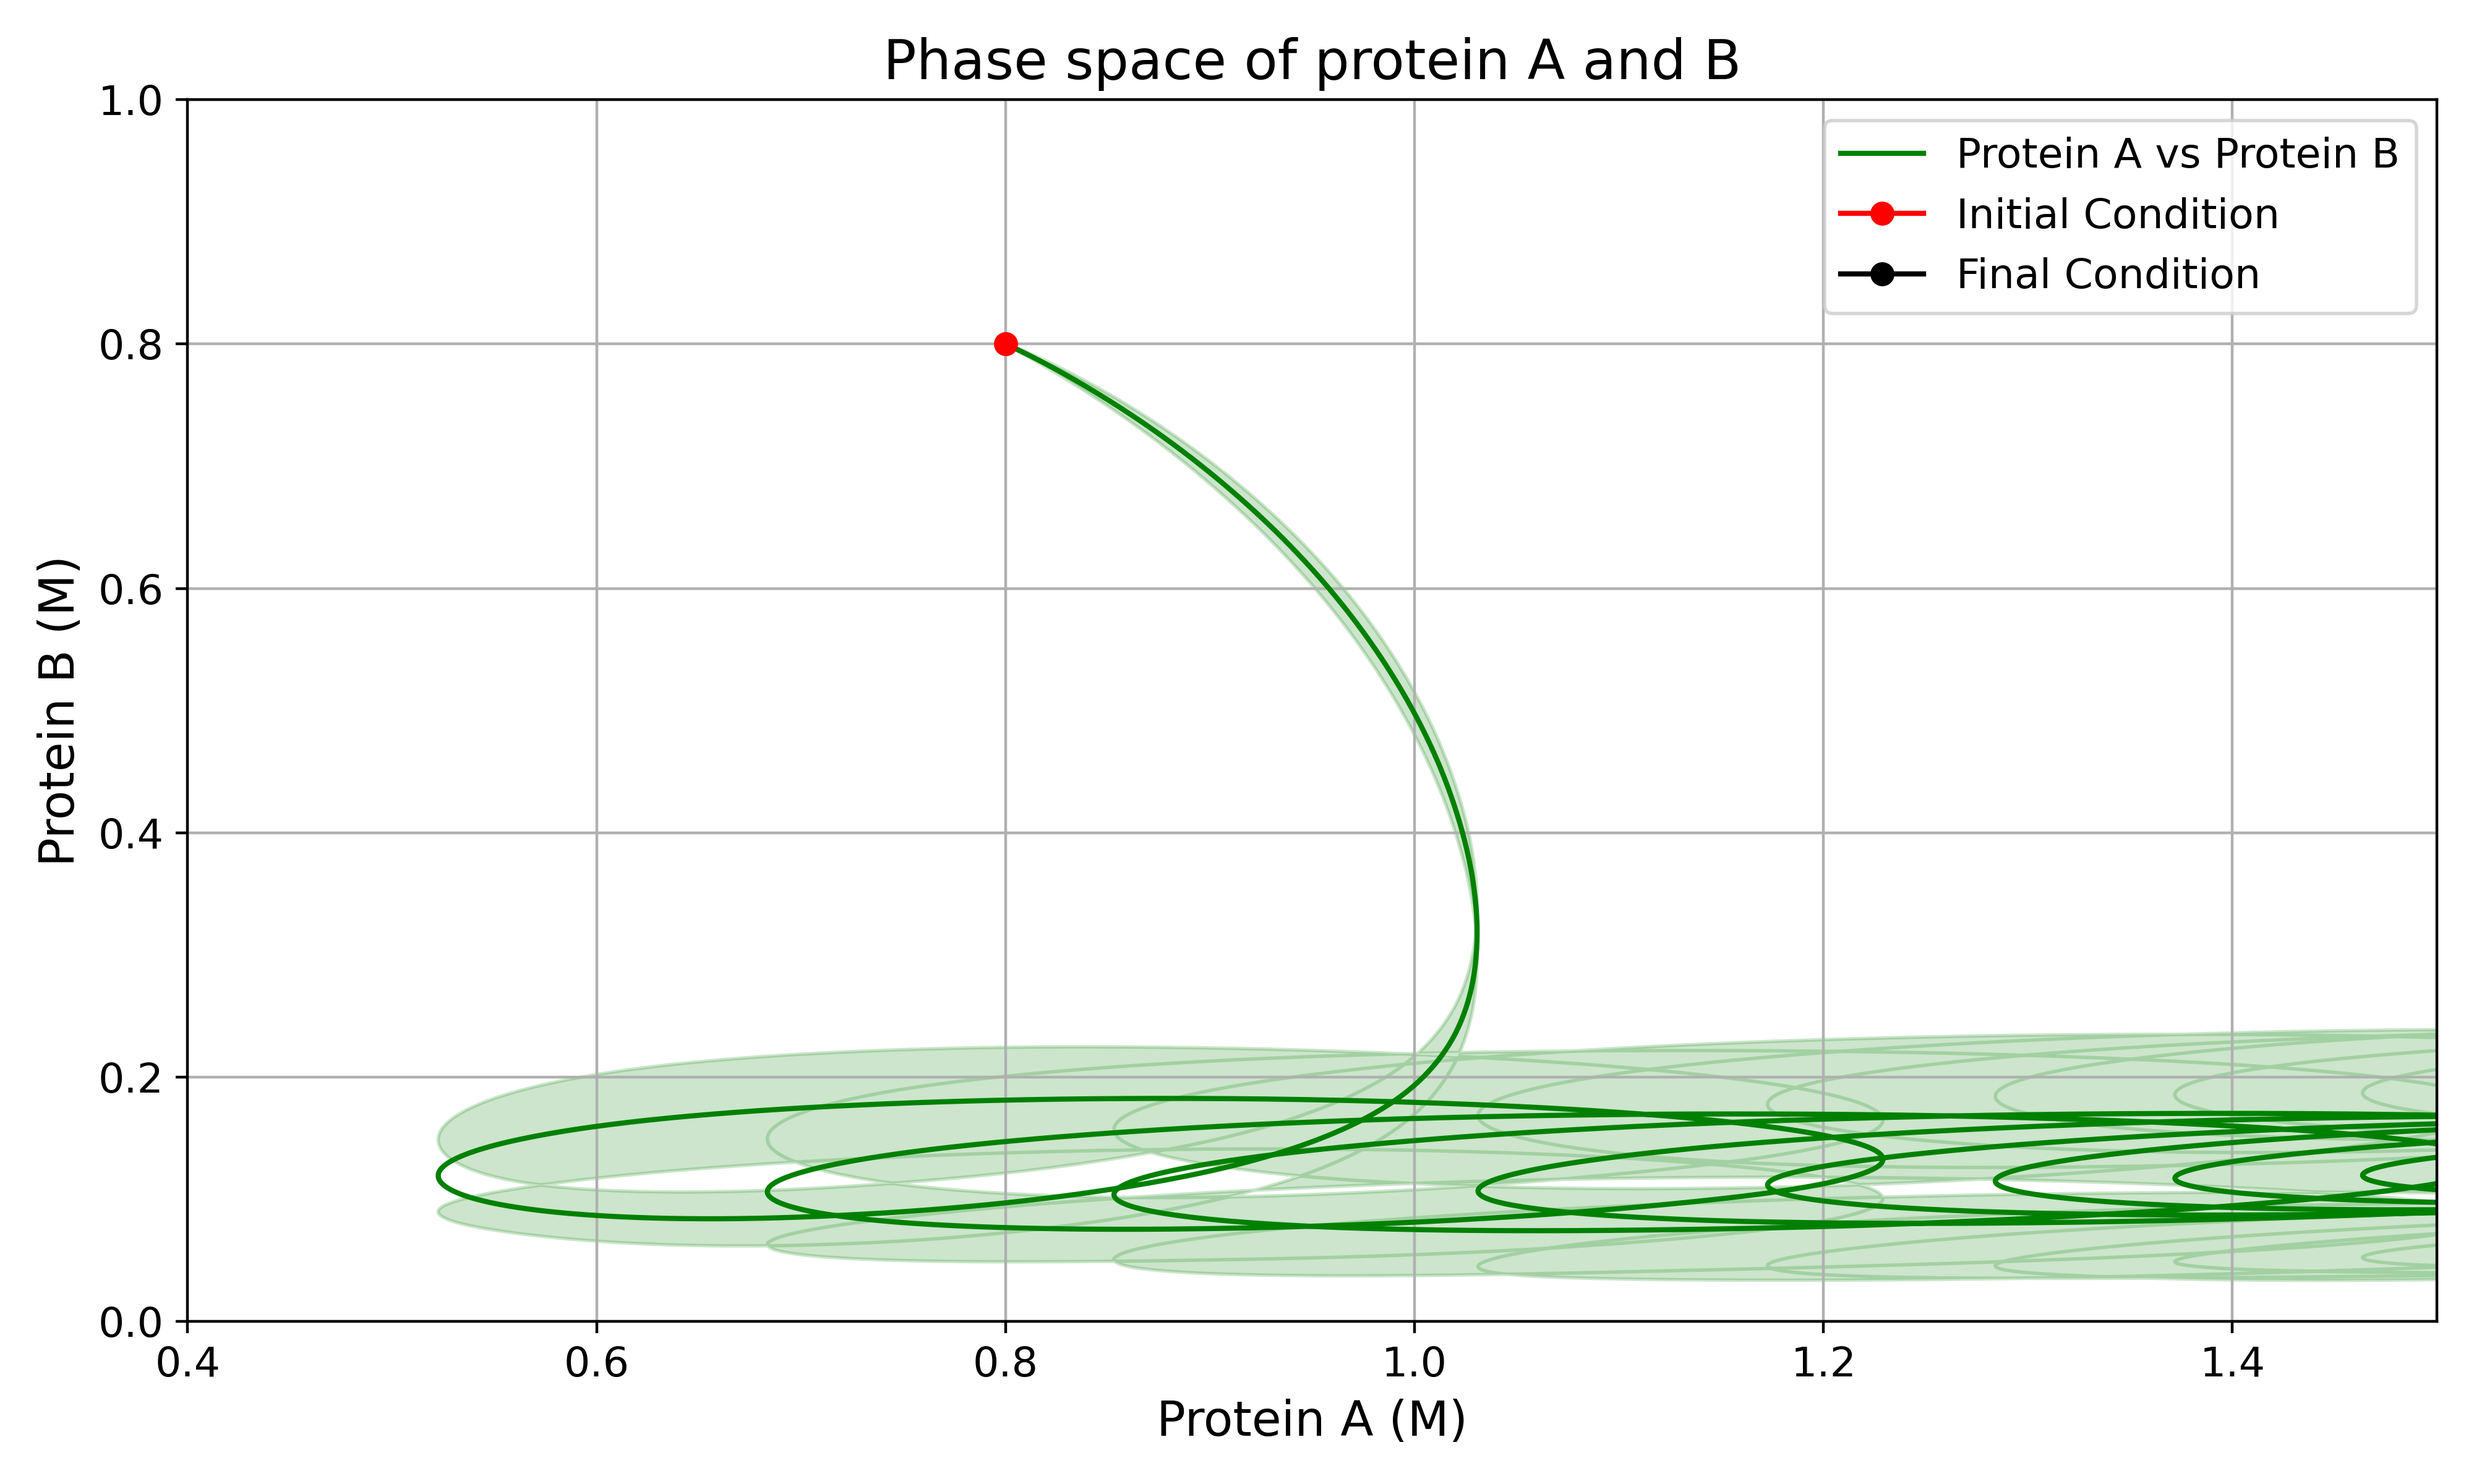
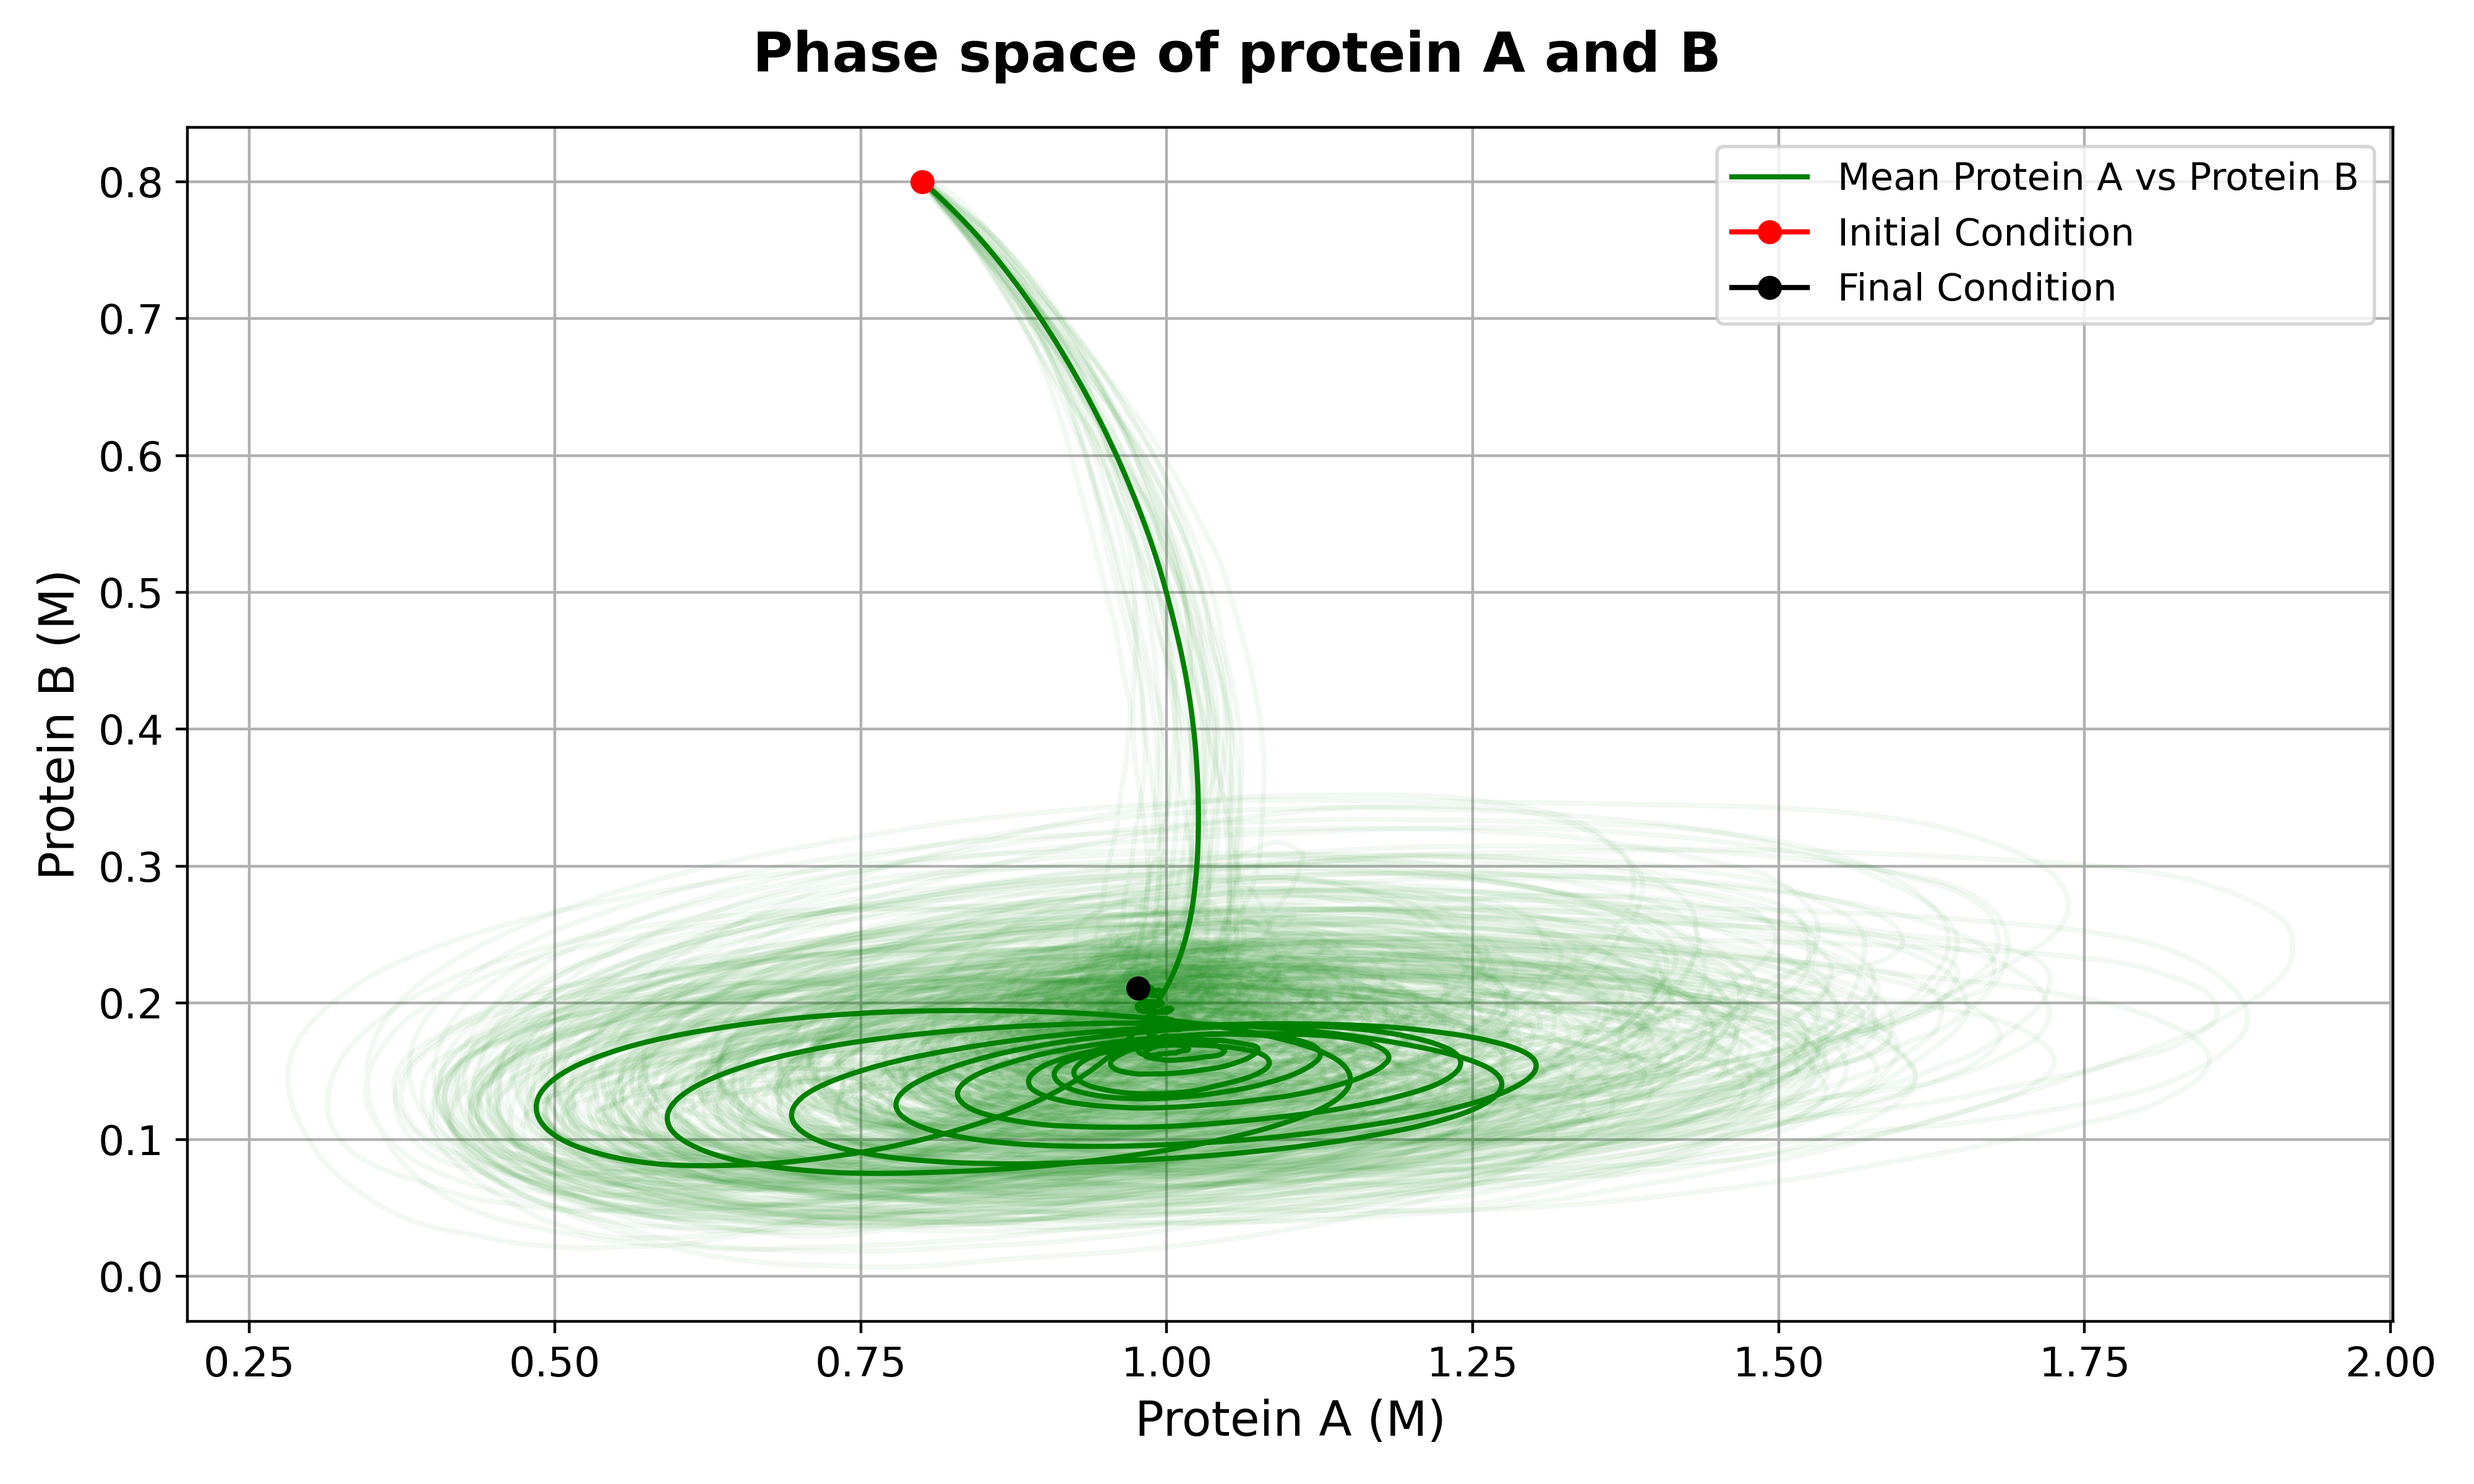
Changed calculation of alpha

diff --git a/assignment_2.py b/assignment_2.py
@@ -19,7 +19,12 @@ plt.rcParams["legend.fontsize"] = 12
 
 ##########################################
 def simualate_gene_network(
-    num_simulations: int, N: int, dt: float, params: dict, initial_conditions: dict
+    num_simulations: int,
+    N: int,
+    T: int,
+    dt: float,
+    params: dict,
+    initial_conditions: dict,
 ) -> tuple:
     """
     Simulate the gene network using the Euler-Maruyama method.
@@ -64,6 +69,7 @@ def simualate_gene_network(
         S_a[0] = initial_conditions["S_a"]
         S_b[0] = initial_conditions["S_b"]
 
+        time = np.linspace(0, T, N)
         for t in range(1, N):
             # Euler-Maruyama method
 
@@ -72,16 +78,20 @@ def simualate_gene_network(
             dB_1B = np.random.normal(0, np.sqrt(dt))
             dB_2B = np.random.normal(0, np.sqrt(dt))
 
-            alphaA = params["c_A"] / (1 + np.exp(-params["b_A"] * (t - params["a_A"])))
-            alphaB = params["c_B"] / (1 + np.exp(-params["b_B"] * (t - params["a_B"])))
+            alphaA = params["c_A"] / (
+                1 + np.exp(np.multiply(params["b_A"], (time[t - 1] - params["a_A"])))
+            )
+            alphaB = params["c_B"] / (
+                1 + np.exp(np.multiply(params["b_B"], (time[t - 1] - params["a_B"])))
+            )
 
             betaA_crit = params["beta_A"] * (
-                (P_b[t - 1] ** params["n_a"])
-                / (params["theta_A"] ** params["n_a"] + P_b[t - 1] ** params["n_a"])
+                (P_b[t - 1] ** params["n_b"])
+                / (params["theta_B"] ** params["n_b"] + P_b[t - 1] ** params["n_b"])
             )
             betaB_crit = params["beta_B"] * (
-                (params["theta_B"] ** params["n_b"])
-                / (params["theta_B"] ** params["n_b"] + P_a[t - 1] ** params["n_b"])
+                (params["theta_A"] ** params["n_a"])
+                / (params["theta_A"] ** params["n_a"] + P_a[t - 1] ** params["n_a"])
             )
 
             U_b[t] = (
@@ -416,6 +426,10 @@ def plot_stochastic_mrna(
     S_b: np.ndarray,
     S_a_std: np.ndarray,
     S_b_std: np.ndarray,
+    U_a: np.ndarray,
+    U_b: np.ndarray,
+    U_a_std: np.ndarray,
+    U_b_std: np.ndarray,
     T: float,
     N: int,
     save=False,
@@ -433,20 +447,27 @@ def plot_stochastic_mrna(
     - save (bool): If True, save the plot to a file. Default is False.
     """
     t = np.linspace(0, T, N)
-
     plt.figure(figsize=STRD_FIG_SIZE)
 
-    plt.plot(t, S_a, label="mRNA A", color="blue")
+    plt.figure(figsize=(6, 5))
+    plt.plot(t, S_a, label="Mean mature mRNA A", color="blue")
     plt.fill_between(t, S_a - S_a_std, S_a + S_a_std, color="blue", alpha=0.2)
-    plt.plot(t, S_b, label="mRNA B", color="orange")
+    plt.plot(t, U_a, label="Mean pre-mRNA A", color="purple")
+    plt.fill_between(t, U_a - U_a_std, U_a + U_a_std, color="purple", alpha=0.2)
+    plt.plot(t, U_b, label="Mean pre-mRNA B", color="red")
+    plt.fill_between(t, U_b - U_b_std, U_b + U_b_std, color="red", alpha=0.2)
+    plt.plot(t, S_b, label="Mean mature mRNA B", color="orange")
     plt.fill_between(t, S_b - S_b_std, S_b + S_b_std, color="orange", alpha=0.2)
-
-    plt.title("mRNA A and B")
-    plt.xlabel("Time (s)")
-    plt.ylabel("Concentration (M)")
-    plt.legend()
-    plt.grid()
-
+    plt.suptitle(
+        "pre-mRNA and mRNA concentrations\n of genes A and B",
+        fontsize=16,
+        fontweight="bold",
+    )
+    plt.xlabel("Time (s)", fontsize=14)
+    plt.ylabel("Concentration (M)", fontsize=14)
+    # plt.ylim(0, 3.5)
+    plt.grid(True)
+    plt.legend(fontsize=11)
     plt.tight_layout()
     if save:
         if not os.path.exists("results"):
@@ -458,24 +479,30 @@ def plot_stochastic_mrna(
 
 
 def plot_stochastic_protein(
-    P_a: np.ndarray, P_b: np.ndarray, P_b_std: np.ndarray, save=False
+    P_a: np.ndarray,
+    P_b: np.ndarray,
+    P_b_std: np.ndarray,
+    P_a_total: np.ndarray,
+    P_b_total: np.ndarray,
+    num_simulations,
+    save=False,
 ) -> None:
     plt.figure(figsize=STRD_FIG_SIZE)
 
-    plt.plot(P_a, P_b, label="Protein A vs Protein B", color="green")
-    plt.fill_between(P_a, P_b - P_b_std, P_b + P_b_std, color="green", alpha=0.2)
+    num_to_plot = 30
+    selected_indices = np.random.choice(num_simulations, num_to_plot, replace=False)
+
+    for i in selected_indices:
+        plt.plot(P_a_total[i], P_b_total[i], color="green", alpha=0.05)
+
+    plt.plot(P_a, P_b, label="Mean Protein A vs Protein B", color="green")
     plt.plot(P_a[0], P_b[0], marker="o", color="red", label="Initial Condition")
     plt.plot(P_a[-1], P_b[-1], marker="o", color="black", label="Final Condition")
-
-    plt.xlim(0.4, 1.5)
-    plt.ylim(0, 1)
-
-    plt.title("Phase space of protein A and B")
-    plt.xlabel("Protein A (M)")
-    plt.ylabel("Protein B (M)")
-    plt.legend()
-    plt.grid()
-
+    plt.suptitle("Phase space of protein A and B", fontsize=16, fontweight="bold")
+    plt.xlabel("Protein A (M)", fontsize=14)
+    plt.ylabel("Protein B (M)", fontsize=14)
+    plt.grid(True)
+    plt.legend(fontsize=11)
     plt.tight_layout()
     if save:
         if not os.path.exists("results"):
@@ -556,22 +583,40 @@ def main(SAVING: bool = False) -> None:
     T = 100
     N = int(T / dt)
 
-    num_simulations = 1000
+    num_simulations = 100
 
-    _, _, P_a_total, P_b_total, S_a_total, S_b_total = simualate_gene_network(
-        num_simulations, N, dt, params_dict, init_pop
+    U_a_total, U_b_total, P_a_total, P_b_total, S_a_total, S_b_total = (
+        simualate_gene_network(num_simulations, N, T, dt, params_dict, init_pop)
     )
     S_a_mean = np.mean(S_a_total, axis=0)
     S_b_mean = np.mean(S_b_total, axis=0)
     P_a_mean = np.mean(P_a_total, axis=0)
     P_b_mean = np.mean(P_b_total, axis=0)
+    U_a_mean = np.mean(U_a_total, axis=0)
+    U_b_mean = np.mean(U_b_total, axis=0)
 
+    U_a_std = np.std(U_a_total, axis=0)
+    U_b_std = np.std(U_b_total, axis=0)
     P_b_std = np.std(P_b_total, axis=0)
     S_a_std = np.std(S_a_total, axis=0)
     S_b_std = np.std(S_b_total, axis=0)
 
-    plot_stochastic_mrna(S_a_mean, S_b_mean, S_a_std, S_b_std, T, N, save=SAVING)
-    plot_stochastic_protein(P_a_mean, P_b_mean, P_b_std, save=SAVING)
+    plot_stochastic_mrna(
+        S_a_mean,
+        S_b_mean,
+        S_a_std,
+        S_b_std,
+        U_a_mean,
+        U_b_mean,
+        U_a_std,
+        U_b_std,
+        T,
+        N,
+        save=SAVING,
+    )
+    plot_stochastic_protein(
+        P_a_mean, P_b_mean, P_b_std, P_a_total, P_b_total, num_simulations, save=SAVING
+    )
 
     ################### Question 2 ###################
     params_dict = {
